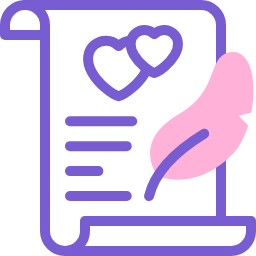
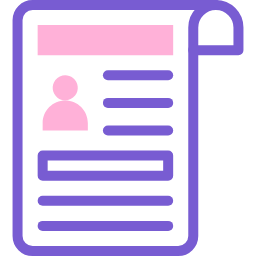
chore:아이콘 파일 정리

diff --git a/src/pages/MyPage.tsx b/src/pages/MyPage.tsx
@@ -11,7 +11,6 @@ import ConfirmationModal from "../components/common/ConfirmationModal";
 import { getUserAvatar } from "../utils/avatar";
 import { ADMIN_CONFIG } from '../config/admin';
 import { blockApi } from '../api/user';
-import IconAgreement from "../assets/Icon_Agreement.png";
 import IconPoint from "../assets/Icon_Point.png";
 import IconTrack from "../assets/Icon_Track.png";
 import IconSubscribe from "../assets/Icon_Subscribe.png";
@@ -285,7 +284,7 @@ const MyPage: React.FC = () => {
           <MenuContainer>
             <MenuGrid>
               <MenuButton onClick={() => navigate('/track')}>
-                <img src={IconAgreement} alt="트랙" />
+                <img src={IconTrack} alt="트랙" />
                 감정트랙
               </MenuButton>
               <MenuButton onClick={() => navigate('/point')}>
